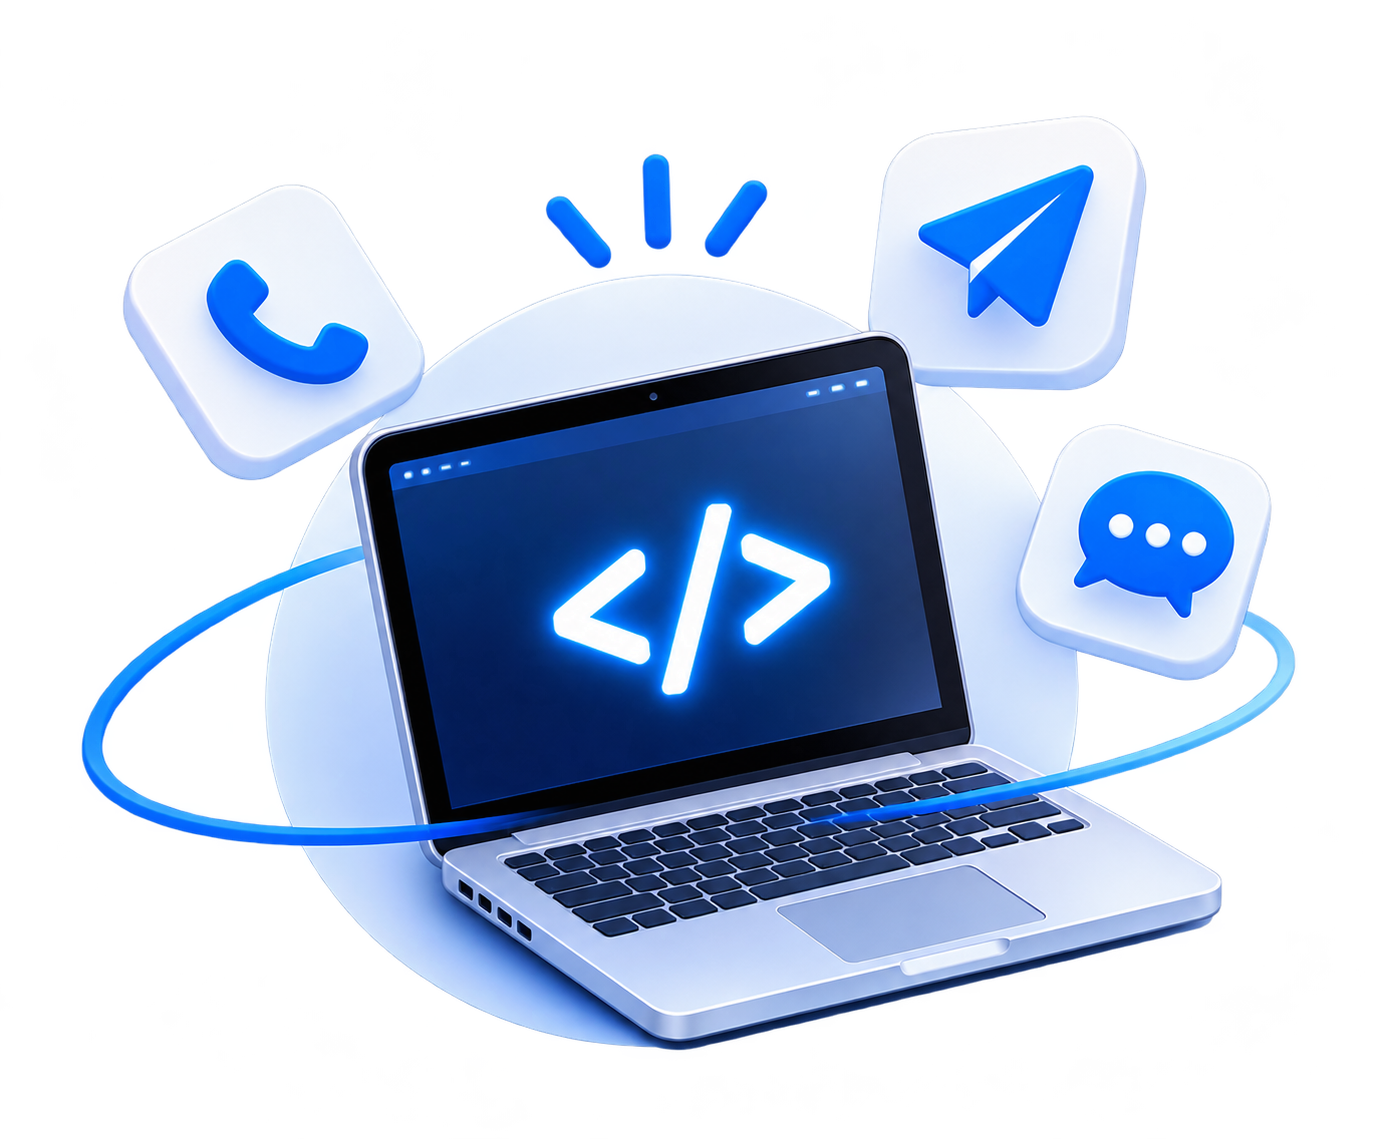
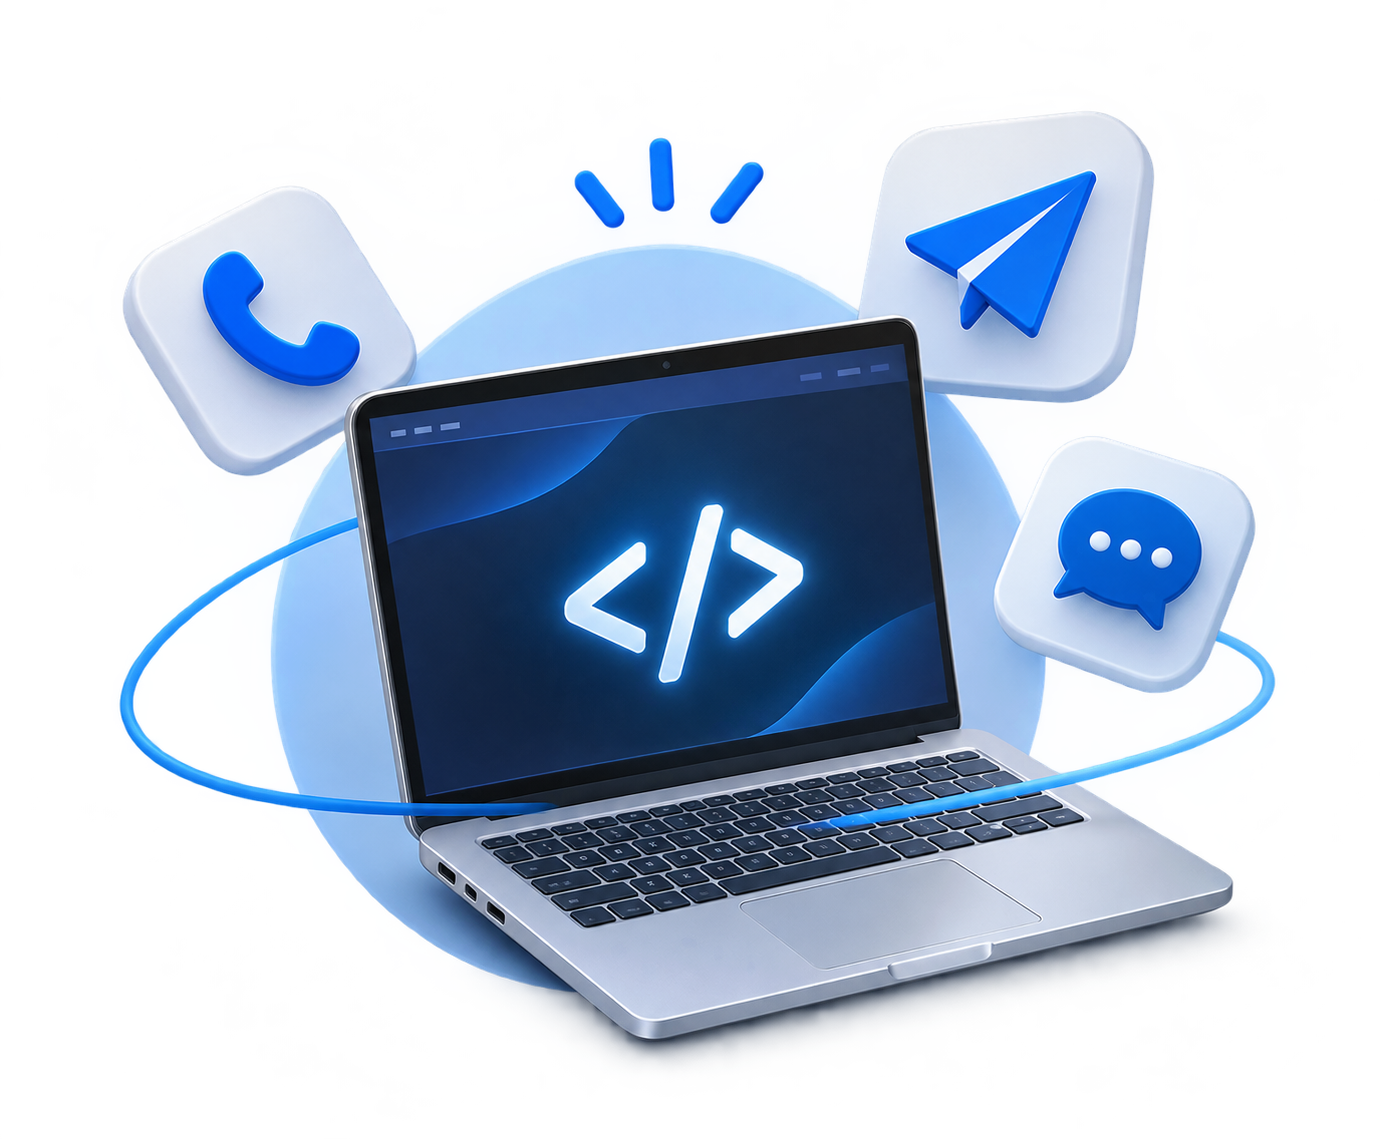
update

diff --git a/src/pages/About.jsx b/src/pages/About.jsx
@@ -1,0 +1,106 @@
+import { FaArrowRight, FaFacebookF, FaInstagram, FaTelegramPlane } from "react-icons/fa";
+import { FiGithub } from "react-icons/fi";
+import profile from "../assets/images/profile.png";
+const About = () => {
+  return (
+    <main>
+      <section>
+        <div className="row home">
+          <article className="col-12 col-md-6 d-flex justify-content-start align-items-center info" style={{ height: "100vh" }}>
+            <div>
+              <section>
+                <span className="shadow-item py-1 px-2 fs-5 fw-medium">About Me</span>
+                <h1 className="my-2 fw-bold">I'm Rey Chantha</h1>
+                <span className="text-primary fw-medium" style={{ fontSize: "18px" }}>Full-Stack Developer</span>
+                <p className="mt-2" style={{ fontSize: "17px" }}>
+                  I’m a dedicated IT student with a strong interest in software development and system technologies. I enjoy learning how applications work, solving technical challenges, and transforming concepts into functional projects. Through hands-on practice and continuous learning, I aim to strengthen my skills and build software that is useful, reliable, and user-friendly.
+                </p>
+              </section>
+              <section className="mainSocial d-flex align-items-center gap-4 mt-4">
+                <a
+                  href="https://www.facebook.com/rey.chantha.2025"
+                  target="_blank"
+                  rel="noopener noreferrer"
+                  className="btnSocial text-black shadow-item d-flex justify-content-center align-items-center"
+                  data-tooltip="Facebook"
+                  aria-label="Facebook"
+                >
+                  <FaFacebookF className="iconSocail" size={18} />
+                </a>
+
+                <a
+                  href="https://t.me/Rey_Chantha"
+                  target="_blank"
+                  rel="noopener noreferrer"
+                  className="btnSocial text-black shadow-item d-flex justify-content-center align-items-center"
+                  data-tooltip="Telegram"
+                  aria-label="Telegram"
+                >
+                  <FaTelegramPlane className="iconSocail" size={20} />
+                </a>
+
+                <a
+                  href="https://www.instagram.com/rey_chantha/"
+                  target="_blank"
+                  rel="noopener noreferrer"
+                  className="btnSocial text-black shadow-item d-flex justify-content-center align-items-center"
+                  data-tooltip="Instagram"
+                  aria-label="Instagram"
+                >
+                  <FaInstagram className="iconSocail" size={20} />
+                </a>
+
+                <a
+                  href="https://github.com/Chantha953"
+                  target="_blank"
+                  rel="noopener noreferrer"
+                  className="btnSocial text-black shadow-item d-flex justify-content-center align-items-center"
+                  data-tooltip="GitHub"
+                  aria-label="GitHub"
+                >
+                  <FiGithub className="iconSocail" size={20} />
+                </a>
+
+                <span
+                  style={{
+                    width: "1px",
+                    height: "30px",
+                    backgroundColor: "#d8d8d8"
+                  }}
+                />
+
+                <button className="btn btnNav px-4 py-1 shadow-item border-0 rounded-5">
+                  <span className="text d-flex justify-content-center align-items-center gap-1 text-primary">
+                    Hire Me <FaArrowRight className="icon" size={13} />
+                  </span>
+                </button>
+              </section>
+            </div>
+          </article>
+          <article className="col-12 col-md-6 d-flex justify-content-end align-items-center bg-pfp">
+            <div
+              className="profile shadow-item d-flex justify-content-center align-items-center rounded-circle overflow-hidden"
+              style={{
+                width: "100%",
+                maxWidth: "400px",
+                aspectRatio: "1 / 1",
+                flexShrink: 0
+              }}
+            >
+              <img
+                src={profile}
+                alt="Profile"
+                className="rounded-circle object-fit-cover"
+                style={{
+                  width: "96%",
+                  height: "96%"
+                }}
+              />
+            </div>
+          </article>
+        </div>
+      </section>
+    </main>
+  )
+}
+export default About;

diff --git a/src/components/Footer.jsx b/src/components/Footer.jsx
@@ -1,0 +1,64 @@
+import { FaFacebookF, FaInstagram, FaTelegramPlane } from "react-icons/fa";
+import { FiGithub } from "react-icons/fi";
+import { LiaCopyrightSolid } from "react-icons/lia";
+const Footer = () => {
+    return (
+        <footer className="container" style={{transform :"translateY(16rem)", paddingBottom: "8rem"}}>
+            <hr className="text-secondary" />
+            <div className="row justify-content-between align-items-center">
+                <article className="col-12 col-md-6 d-flex align-items-center text-secondary">
+                    <LiaCopyrightSolid />
+                    <span>2026 Rey Chantha. All Rights Reserved.</span>
+                </article>
+                <article className="col-12 col-md-6">
+                    <div className="mainSocial d-flex justify-content-end align-items-center gap-4">
+                        <a
+                            href="https://www.facebook.com/rey.chantha.2025"
+                            target="_blank"
+                            rel="noopener noreferrer"
+                            className="btnSocial text-black shadow-item d-flex justify-content-center align-items-center"
+                            data-tooltip="Facebook"
+                            aria-label="Facebook"
+                        >
+                            <FaFacebookF className="iconSocail" size={18} />
+                        </a>
+
+                        <a
+                            href="https://t.me/Rey_Chantha"
+                            target="_blank"
+                            rel="noopener noreferrer"
+                            className="btnSocial text-black shadow-item d-flex justify-content-center align-items-center"
+                            data-tooltip="Telegram"
+                            aria-label="Telegram"
+                        >
+                            <FaTelegramPlane className="iconSocail" size={20} />
+                        </a>
+
+                        <a
+                            href="https://www.instagram.com/rey_chantha/"
+                            target="_blank"
+                            rel="noopener noreferrer"
+                            className="btnSocial text-black shadow-item d-flex justify-content-center align-items-center"
+                            data-tooltip="Instagram"
+                            aria-label="Instagram"
+                        >
+                            <FaInstagram className="iconSocail" size={20} />
+                        </a>
+
+                        <a
+                            href="https://github.com/Chantha953"
+                            target="_blank"
+                            rel="noopener noreferrer"
+                            className="btnSocial text-black shadow-item d-flex justify-content-center align-items-center"
+                            data-tooltip="GitHub"
+                            aria-label="GitHub"
+                        >
+                            <FiGithub className="iconSocail" size={20} />
+                        </a>
+                    </div>
+                </article>
+            </div>
+        </footer>
+    )
+}
+export default Footer;

diff --git a/src/components/CardProject.jsx b/src/components/CardProject.jsx
@@ -7,13 +7,14 @@ import project5 from "../assets/images/project5.png";
 import project6 from "../assets/images/project6.png";
 
 import { IoIosArrowBack, IoIosArrowForward } from "react-icons/io";
+import { Navigate, useNavigate } from "react-router-dom";
 
 const projects = [project1, project5, project3,project4,project2,project6];
 
 const CardProject = () => {
     const [currentIndex, setCurrentIndex] = useState(0);
     const [direction, setDirection] = useState("next");
-
+    const navigate = useNavigate();
     const handleSlide = (step) => {
         setDirection(step > 0 ? "next" : "prev");
 
@@ -43,6 +44,7 @@ const CardProject = () => {
                         src={projects[currentIndex]}
                         alt={`Project ${currentIndex + 1}`}
                         className="project-image"
+                        onClick={()=>navigate("/skills")}
                     />
                 </div>
             </div>

diff --git a/src/App.jsx b/src/App.jsx
@@ -3,6 +3,7 @@ import Header from './components/Header';
 import MainLayout from './layouts/MainLayout';
 import { createBrowserRouter, RouterProvider } from 'react-router-dom';
 import Home from './pages/Home';
+import About from './pages/About';
 const router = createBrowserRouter([
   {
     path: '/',
@@ -15,7 +16,7 @@ const router = createBrowserRouter([
       },
       {
         path: 'about',
-        element: <h1>About</h1>
+        element: <About/>
       },
       {
         path: 'contact',

diff --git a/src/components/CardabtMe.jsx b/src/components/CardabtMe.jsx
@@ -2,7 +2,7 @@
 const CardabtMe = ({ icon: Icon, title, subtitle }) => {
     return (
         <article>
-            <div className="shadow-item cardItemabtMe d-flex justify-content-center align-items-center rounded-5">
+            <div className="shadow-item cardItemabtMe d-flex justify-content-center align-items-center rounded-4">
                 <div>
                     {Icon && (
                         <div className="d-flex justify-content-center mb-3 text-primary">

diff --git a/src/layouts/MainLayout.jsx b/src/layouts/MainLayout.jsx
@@ -1,5 +1,6 @@
 import { Outlet } from "react-router-dom"
 import Header from "../components/Header"
+import Footer from "../components/Footer";
 
 const MainLayout = () =>{
     return(
@@ -9,6 +10,9 @@ const MainLayout = () =>{
             </div>
             <div className="container">
                 <Outlet/>
+            </div>
+            <div>
+                <Footer/>
             </div>
         </div>
     )
